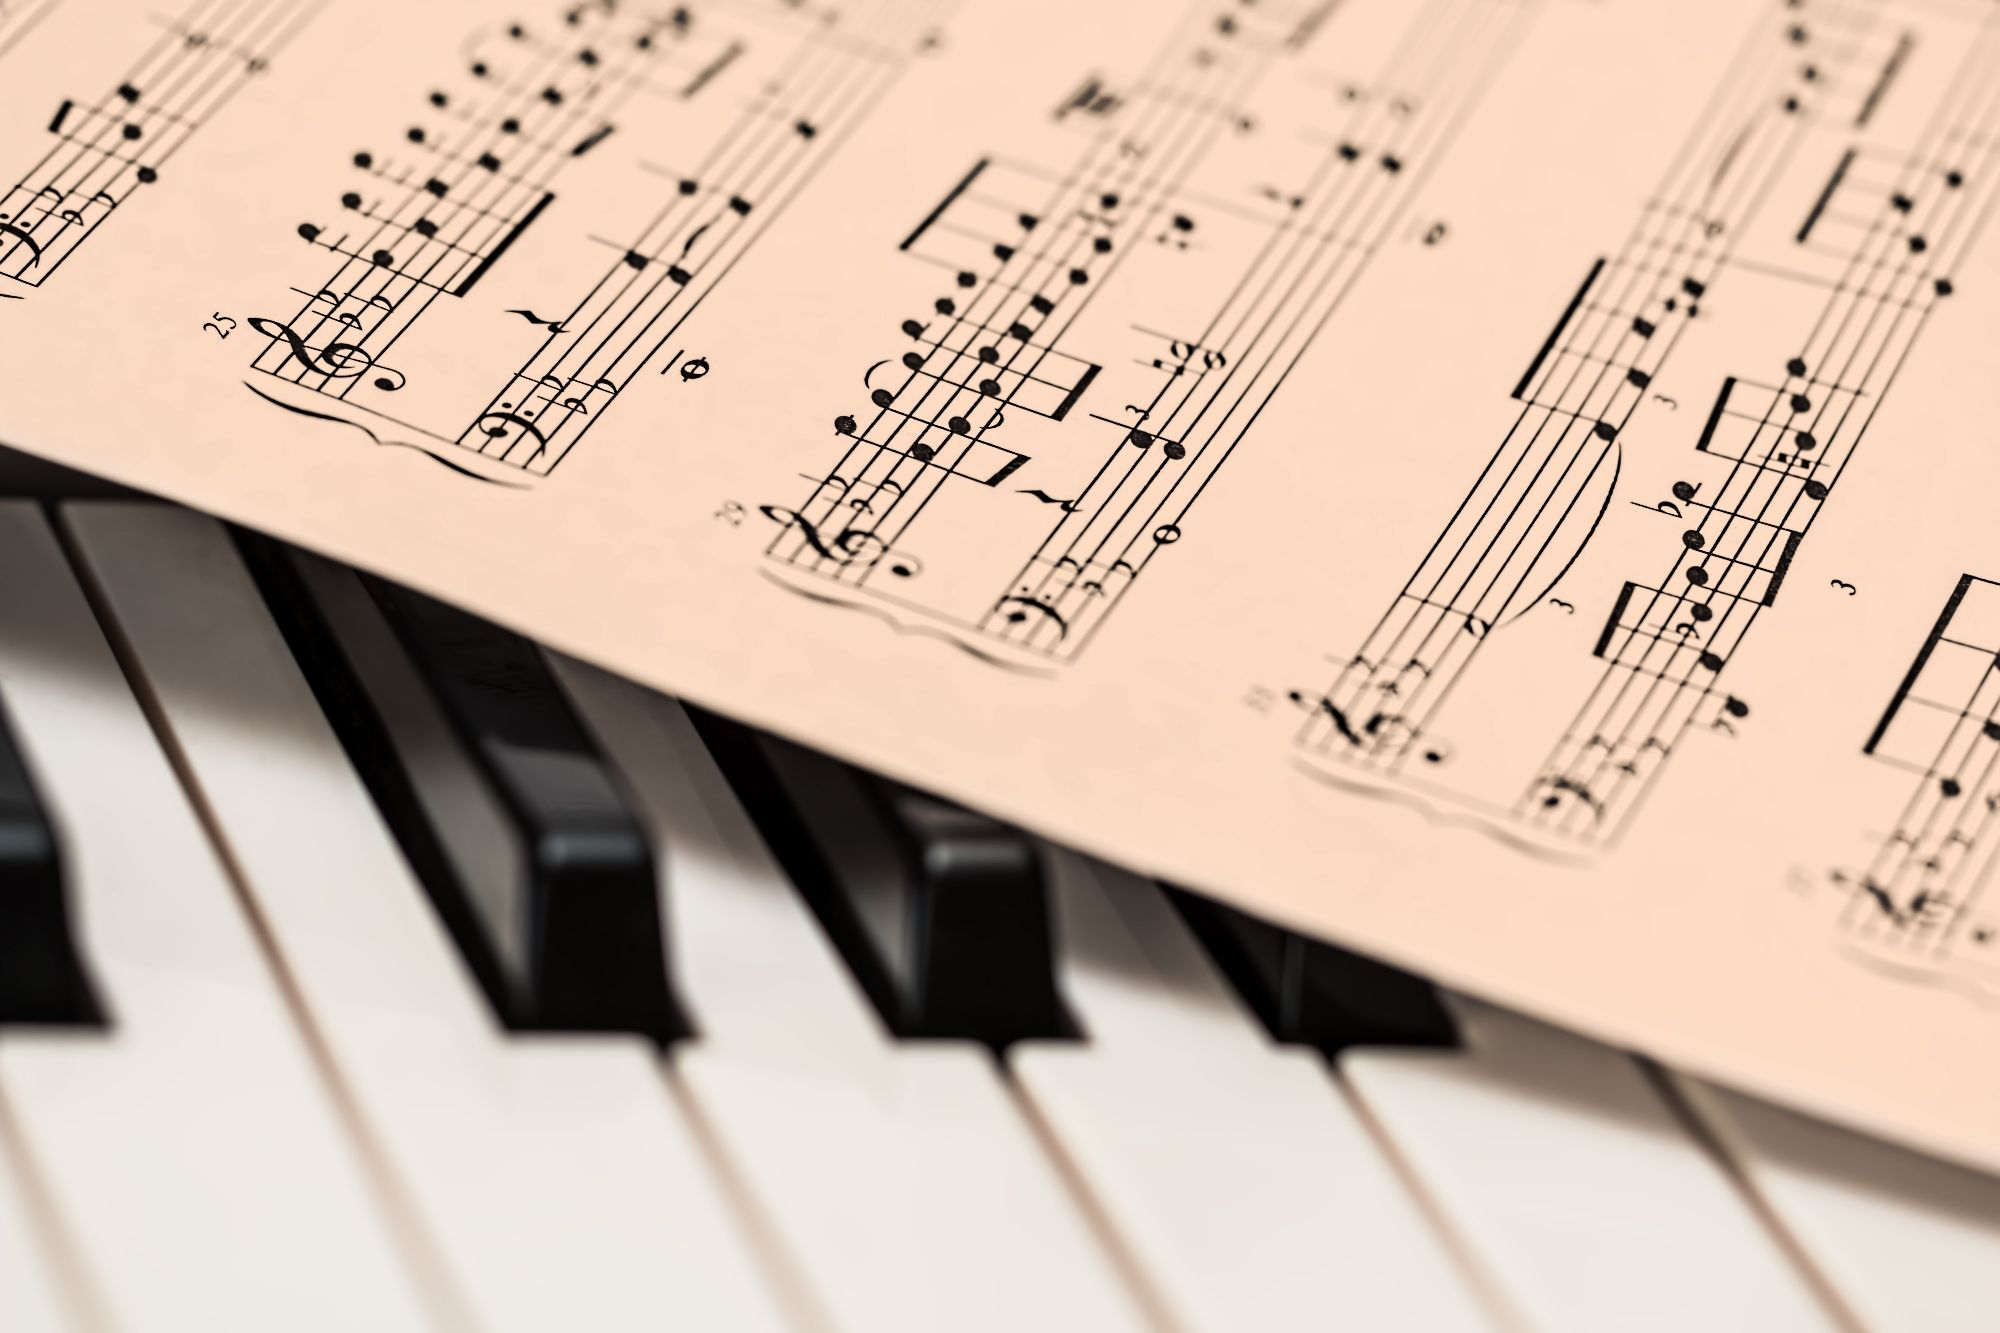
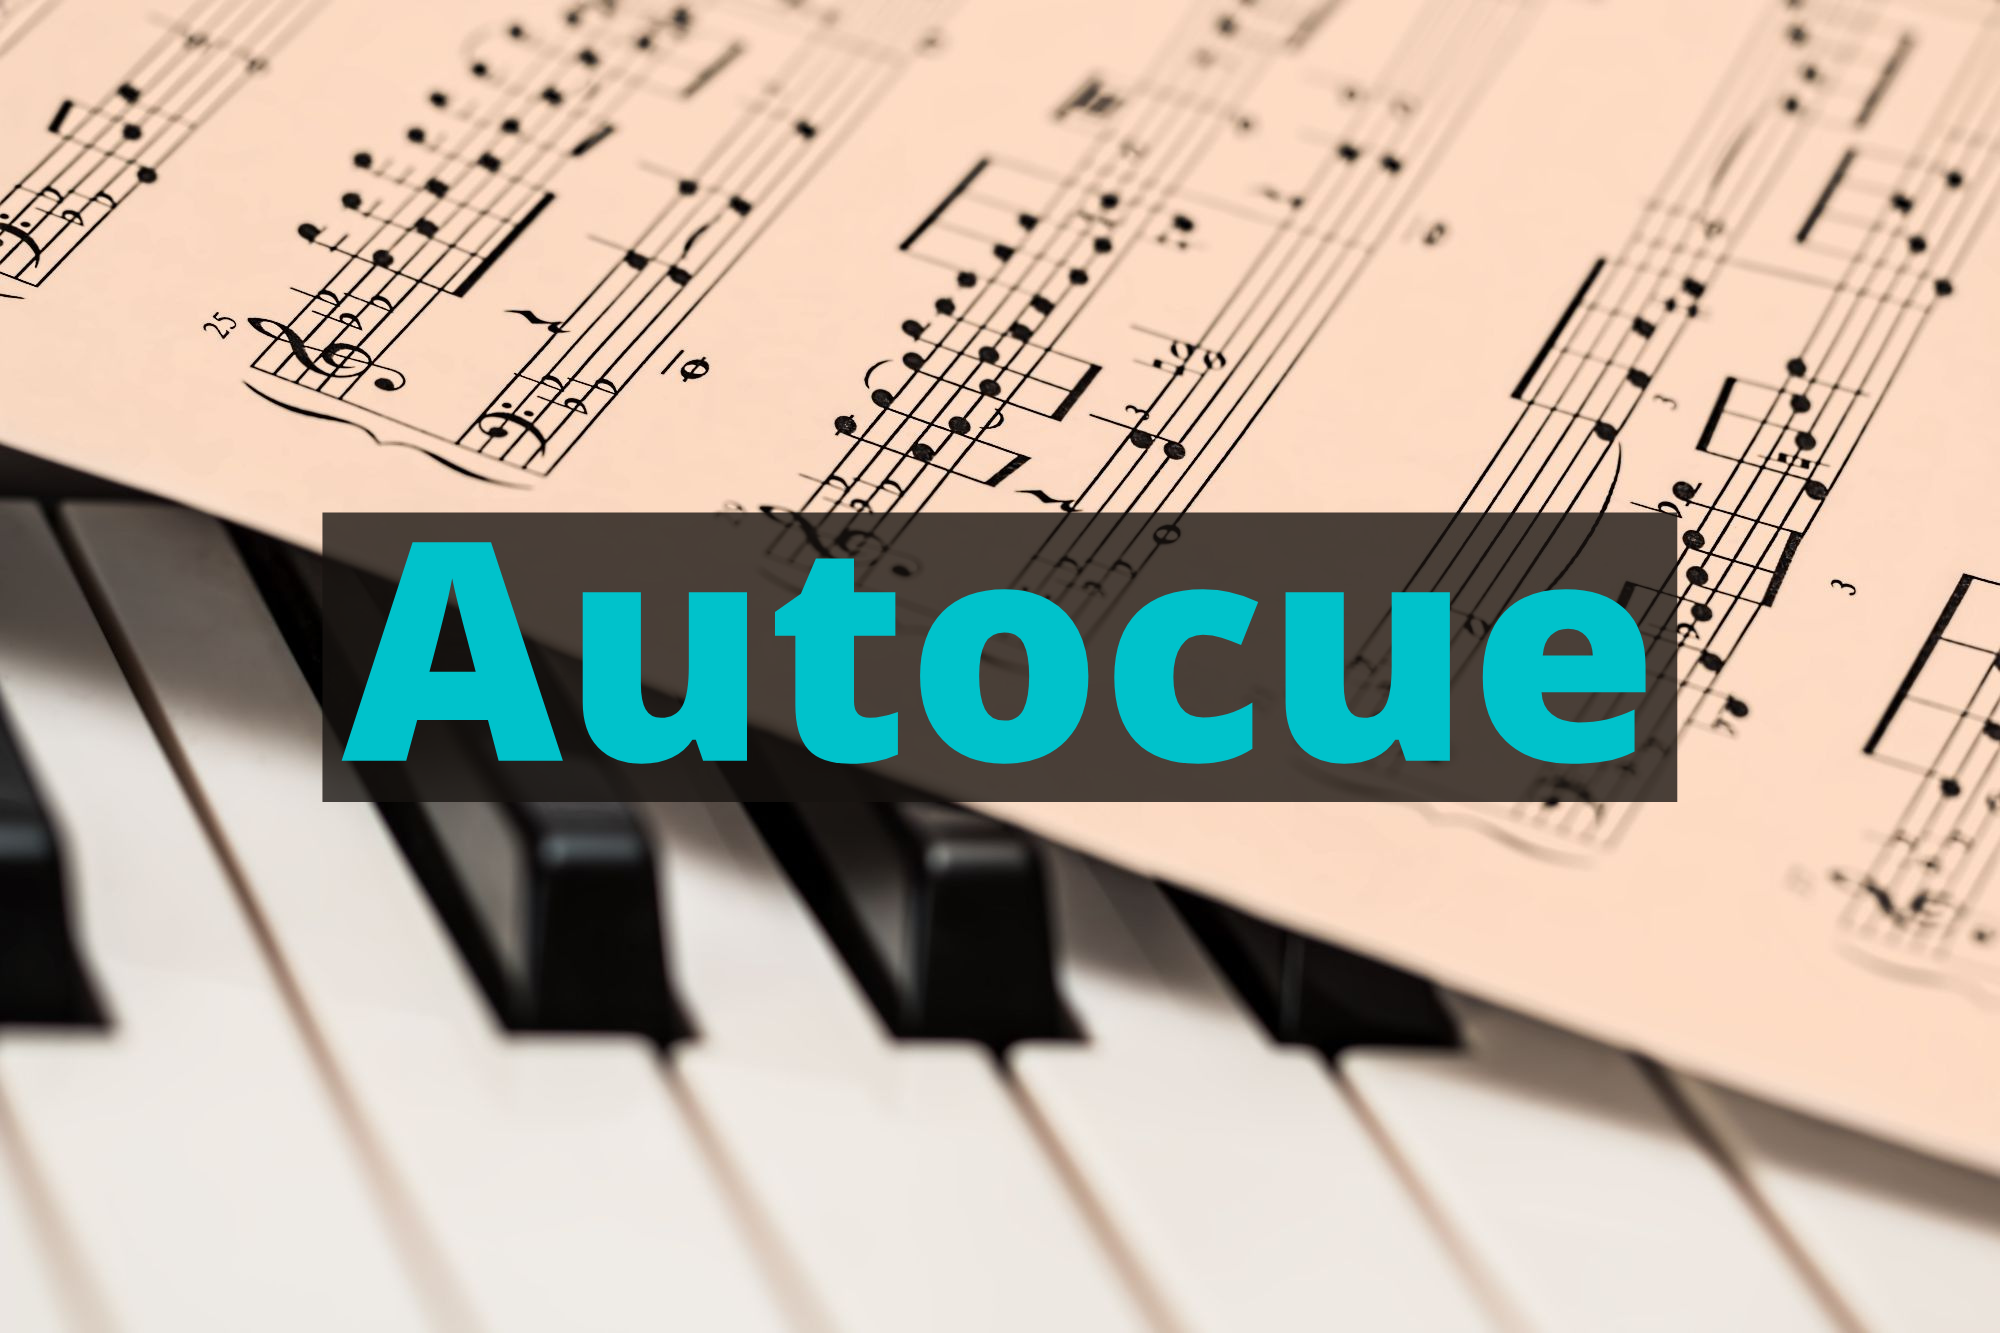
Updated portfolio images

Changed region(s): [[0.155, 0.3691, 0.837, 0.6152]]

diff --git a/index.html b/index.html
@@ -42,7 +42,7 @@
     </header>
     <section id="portfolio" class="portfolio">
         <div class="container">
-            <h2 class="text-center text-secondary">Click below to see some of my projects!</h2>
+            <h2 class="text-center text-secondary">Click below to read about some of my projects!</h2>
             <hr class="star-dark mb-5">
             <div class="row">
                 <div class="col-md-6 col-lg-4">
@@ -370,9 +370,9 @@
                         <div class="row">
                             <div class="col-lg-8 mx-auto">
                                 <h2 class="text-uppercase text-secondary mb-0">Autocue</h2>
-                                <hr class="star-dark mb-5"><img class="img-fluid mb-5" src="assets/img/chords-sheet-on-piano-tiles-210764.jpg">
-                                <p class="mb-5">For my dissertation project, I am currently developing a system which can digitally render sheet music and play back according to a specified BPM. A BPM can also be calculated using a Wii remote as a conductor's baton
-                                    (Java/NodeJS/JavaScript/JQuery)</p>
+                                <hr class="star-dark mb-5"><img class="img-fluid mb-5" src="assets/img/autocue.png">
+                                <p class="mb-5">For my dissertation project, I developed a system which can digitally render sheet music and play back according to a specified BPM. A BPM can also be calculated using a Wii remote as a conductor's baton.<br>
+                                    (Java/NodeJS/JavaScript/JQuery)<br>Awarded a grade of 19/20 (95%).</p>
                             </div>
                         </div>
                     </div>
